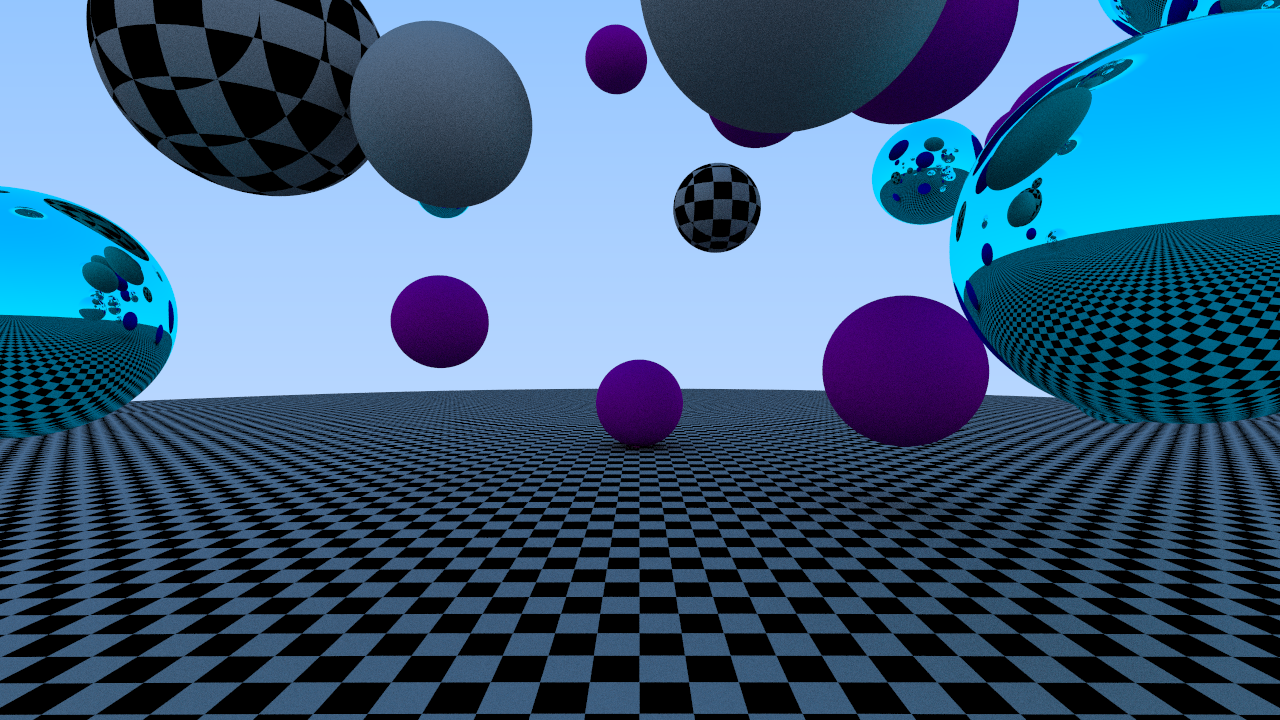
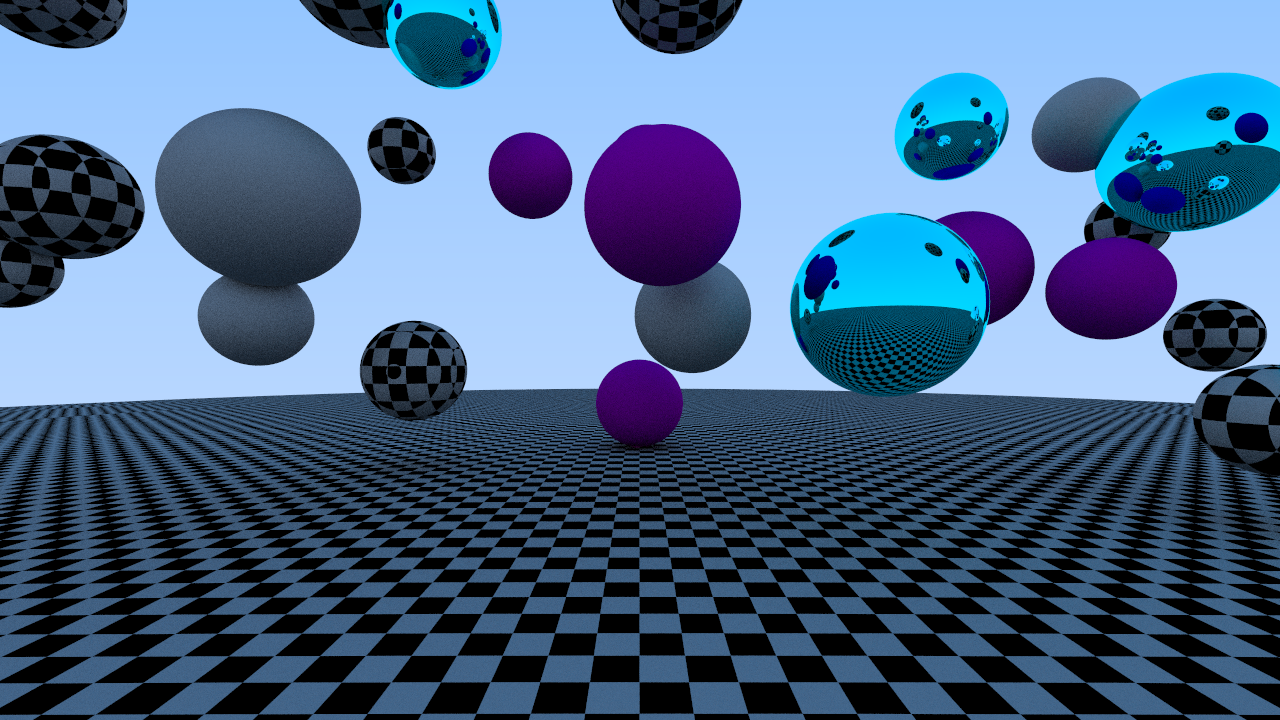
scene no longer implementation of Hittable

diff --git a/src/acceleration_structure.rs b/src/acceleration_structure.rs
@@ -1,6 +1,7 @@
 use super::bounding_box::*;
 use super::hittable::*;
 use super::intersection::*;
+use super::rand_float::rand_range;
 use super::ray::*;
 use super::scene::*;
 use std::sync::Arc;
@@ -16,22 +17,16 @@ impl Hittable for AccelerationStructure {
         if !self.bounding_box.hit(ray, t_min, t_max) {
             return None;
         } else {
-            let left = self.left.intersect(ray, t_min, t_max);
-
-            if let Some(left_hit) = left {
-                let right = self.right.intersect(ray, t_min, left_hit.t);
-                if right.is_some() {
-                    return right;
+            if let Some(left_hit) = self.left.intersect(ray, t_min, t_max) {
+                if let Some(right_hit) = self.right.intersect(ray, t_min, left_hit.t) {
+                    return Some(right_hit);
                 } else {
                     return Some(left_hit);
                 }
             } else {
-                let right = self.right.intersect(ray, t_min, t_max);
-                return right;
+                return self.right.intersect(ray, t_min, t_max);
             }
         }
-
-        None
     }
     fn bounding_box(&self) -> Option<BoundingBox> {
         Some(self.bounding_box)
@@ -53,14 +48,36 @@ impl AccelerationStructure {
         let mut hittables = hittables;
 
         // Sort them on random axis
-        hittables.sort_by(|a, b| {
-            a.bounding_box()
-                .unwrap()
-                .min()
-                .x
-                .partial_cmp(&b.bounding_box().unwrap().max().x)
-                .unwrap()
-        });
+        let r = rand_range(0., 3.) as u32;
+
+        if r == 0 {
+            hittables.sort_by(|a, b| {
+                a.bounding_box()
+                    .unwrap()
+                    .min()
+                    .x
+                    .partial_cmp(&b.bounding_box().unwrap().max().x)
+                    .unwrap()
+            });
+        } else if r == 1 {
+            hittables.sort_by(|a, b| {
+                a.bounding_box()
+                    .unwrap()
+                    .min()
+                    .y
+                    .partial_cmp(&b.bounding_box().unwrap().max().y)
+                    .unwrap()
+            });
+        } else {
+            hittables.sort_by(|a, b| {
+                a.bounding_box()
+                    .unwrap()
+                    .min()
+                    .z
+                    .partial_cmp(&b.bounding_box().unwrap().max().z)
+                    .unwrap()
+            });
+        }
 
         // Split in the center
         let (left, right) = hittables.split_at_mut(mid);
@@ -100,14 +117,37 @@ impl AccelerationStructure {
                 bounding_box: c,
             });
         } else {
-            clones.sort_by(|a, b| {
-                a.bounding_box()
-                    .unwrap()
-                    .min()
-                    .x
-                    .partial_cmp(&b.bounding_box().unwrap().max().x)
-                    .unwrap()
-            });
+            // Sort them on random axis
+            let r = rand_range(0., 3.) as u32;
+
+            if r == 0 {
+                clones.sort_by(|a, b| {
+                    a.bounding_box()
+                        .unwrap()
+                        .min()
+                        .x
+                        .partial_cmp(&b.bounding_box().unwrap().max().x)
+                        .unwrap()
+                });
+            } else if r == 1 {
+                clones.sort_by(|a, b| {
+                    a.bounding_box()
+                        .unwrap()
+                        .min()
+                        .y
+                        .partial_cmp(&b.bounding_box().unwrap().max().y)
+                        .unwrap()
+                });
+            } else {
+                clones.sort_by(|a, b| {
+                    a.bounding_box()
+                        .unwrap()
+                        .min()
+                        .z
+                        .partial_cmp(&b.bounding_box().unwrap().max().z)
+                        .unwrap()
+                });
+            }
 
             let (left, right) = clones.split_at_mut(clones.len() / 2 + 1);
             let left_node = Self::from_slice(left);

diff --git a/src/scene.rs b/src/scene.rs
@@ -34,45 +34,3 @@ impl Scene {
         &self.hittables
     }
 }
-
-impl Hittable for Scene {
-    fn intersect(&self, ray: &Ray, t_min: f32, t_max: f32) -> Option<Intersection> {
-        let mut t = f32::MAX;
-        let mut intersection = None;
-
-        for hittable in self.hittables.iter() {
-            if let Some(hit) = hittable.intersect(ray, t_min, t_max) {
-                if hit.t < t {
-                    t = hit.t;
-                    intersection = Some(hit);
-                }
-            }
-        }
-
-        return intersection;
-    }
-    fn bounding_box(&self) -> Option<BoundingBox> {
-        if self.hittables.len() == 0 {
-            return None;
-        }
-
-        let tmp = BoundingBox::new(&Position::new(0., 0., 0.), &Position::new(0., 0., 0.));
-        let mut output = BoundingBox::new(&Position::new(0., 0., 0.), &Position::new(0., 0., 0.));
-        let mut first_box = true;
-
-        for hittable in self.hittables.iter() {
-            if hittable.bounding_box().is_none() {
-                return None;
-            }
-
-            if first_box {
-                output = tmp;
-                first_box = false
-            } else {
-                output = BoundingBox::surrounding_box(&output, &tmp);
-            }
-        }
-
-        Some(output)
-    }
-}
